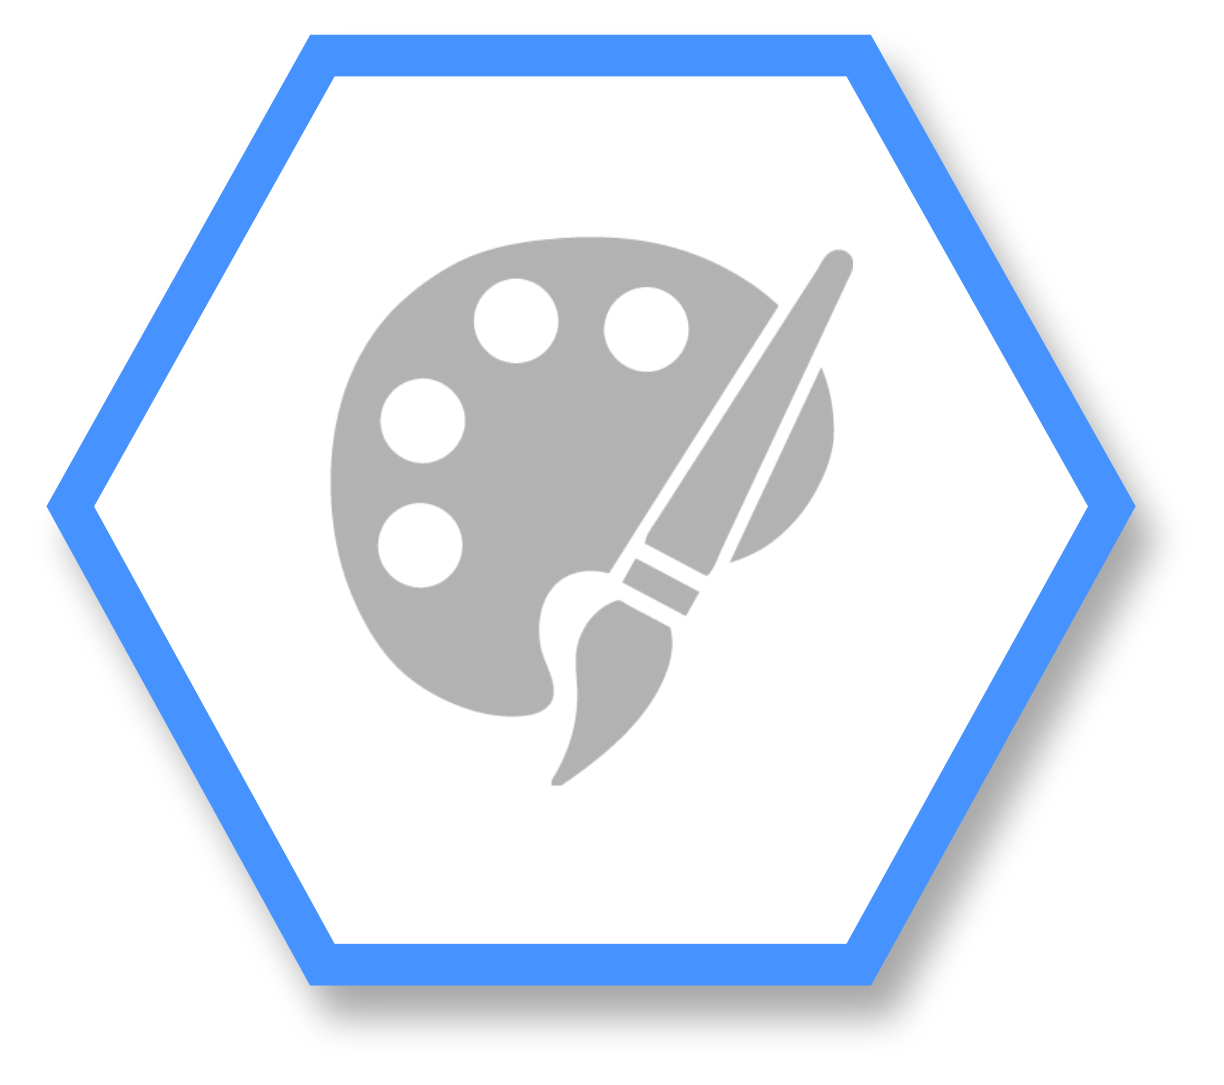
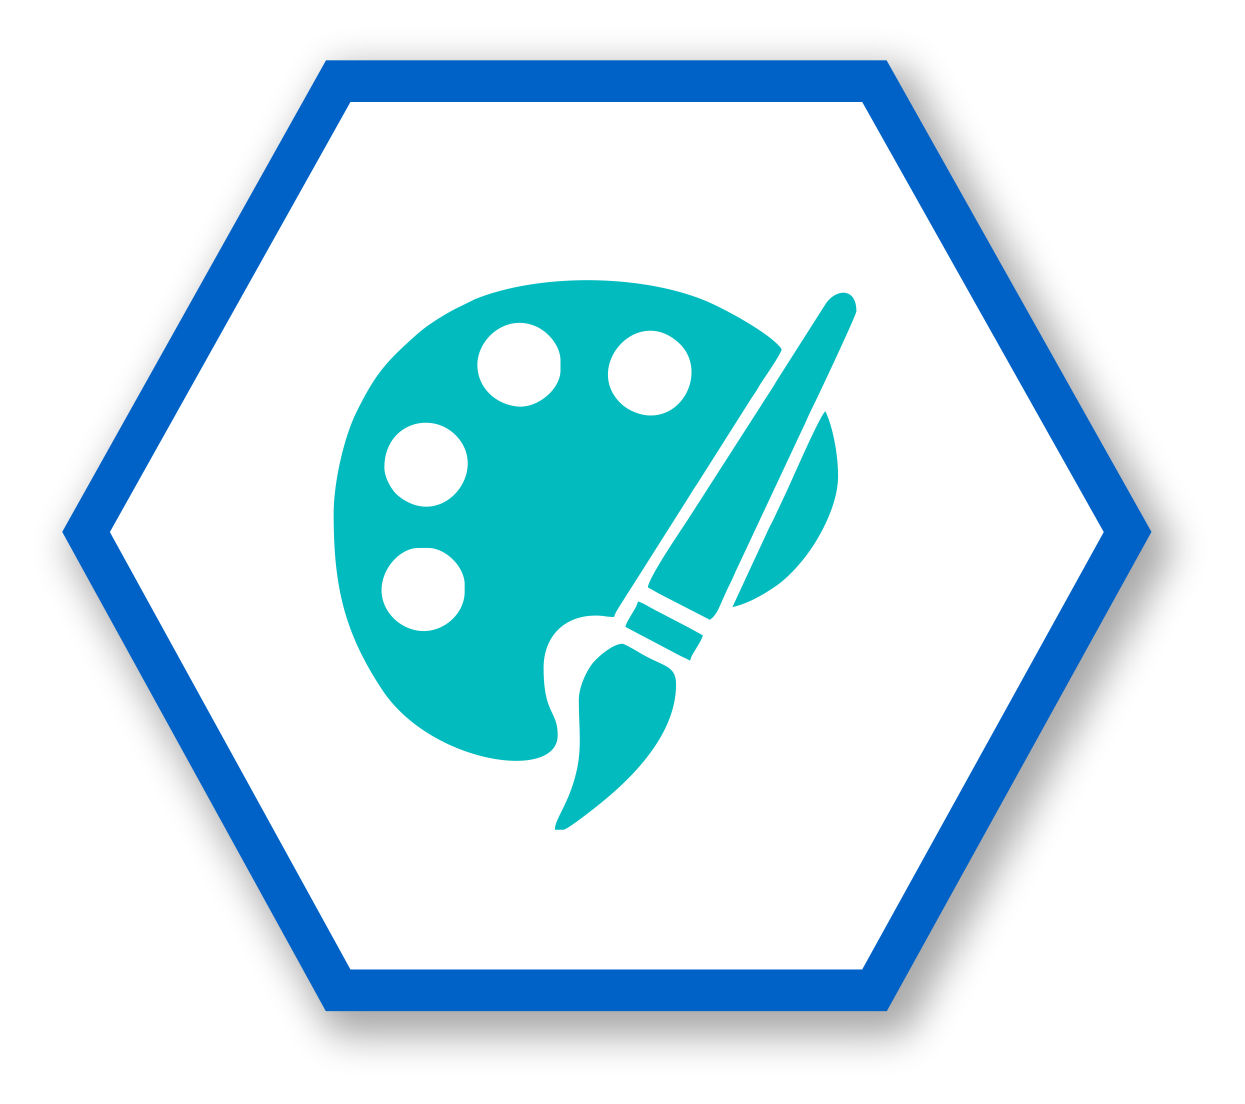
ajustes varios en diseño general

Changed region(s): [[0.031, 0.0304, 0.9314, 0.9429], [0.2484, 0.2129, 0.7141, 0.7604]]

diff --git a/Template/css/index.css b/Template/css/index.css
@@ -154,7 +154,7 @@ header #header_opciones {
   width: 100%;
   justify-content: center;
   align-items: center;
-  background: #2877ED;
+  background: linear-gradient(180deg, rgb(0, 113, 205) 55%, rgba(1, 187, 176, 0.8883928571) 100%);
   color: white;
   padding: 0;
   font-family: fuente1;
@@ -173,10 +173,10 @@ header #header_opciones {
   grid-column: 1/2;
   grid-row: 2/3;
   width: 100%;
-  height: 300px;
+  height: 400px;
   justify-content: space-evenly;
   align-items: center;
-  background: #2877ED;
+  background: linear-gradient(180deg, rgb(0, 113, 205) 55%, rgba(1, 187, 176, 0.8883928571) 100%);
   color: white;
   padding: 0;
   font-family: fuente1;
@@ -185,7 +185,7 @@ header #header_opciones {
   display: flex;
   align-items: center;
   justify-content: center;
-  border-bottom: 2px solid #4693FF;
+  border-bottom: 2px solid rgba(0, 0, 0, 0.2);
   height: 100%;
   width: 100%;
 }
@@ -231,10 +231,9 @@ footer {
   align-items: center;
   overflow: hidden;
   background-color: #4693FF;
-  background-image: url("/Template/Imagenes/fondo-alt-2.jpg");
+  background-image: url("/Template/Imagenes/fondo-alt-2b.jpg");
   background-position: center;
   background-size: cover;
-  background-blend-mode: soft-light;
   padding-bottom: 10px;
 }
 footer #logo_footer {
@@ -410,11 +409,12 @@ section #presentacion #ver_tuto {
   border: none;
   cursor: pointer;
   box-shadow: 2px 2px 8px 2px rgba(0, 0, 0, 0.5);
-  background: #4693FF;
+  background: #0071CD;
   color: white;
 }
 section #presentacion #ver_tuto:hover {
   font-size: 1.15rem;
+  background: #01BBBE;
   transition: 0.5s;
 }
 section #contenedor {
@@ -432,6 +432,10 @@ section #contenedor .descripciones {
   width: 100%;
   overflow: hidden;
   font-family: fuente1;
+  background-image: url("../Imagenes/fondo-alt-4.jpg");
+  background-size: cover;
+  background-repeat: no-repeat;
+  background-position: center;
 }
 section #contenedor .descripciones img {
   width: 170px;
@@ -455,7 +459,7 @@ section #contenedor .descripciones:hover img {
   transition: 0.5s ease-in-out;
 }
 section #contenedor #tutoriales_inicio {
-  background: #6FAEFE !important;
+  background-image: url("../Imagenes/fondo-alt-3.jpg");
 }
 section #contenedor #tutoriales_inicio h4 a {
   color: white;
@@ -549,11 +553,11 @@ section #contenedor #tutoriales_inicio p {
     width: 30%;
     height: 75%;
     border-radius: 10px;
-    background: white;
+    background-image: url("../Imagenes/fondo-alt-4.jpg");
     box-shadow: 3px 3px 10px 5px rgba(0, 0, 0, 0.3);
   }
   body section #contenedor #tutoriales_inicio {
-    background: white !important;
+    background-image: url("../Imagenes/fondo-alt-4.jpg");
   }
   body section #contenedor #tutoriales_inicio h4 a {
     color: #333333 !important;

diff --git a/Template/scss/index.scss b/Template/scss/index.scss
@@ -71,12 +71,13 @@ section{
             border: none;
             cursor: pointer;
             box-shadow: 2px 2px 8px 2px rgba($color: #000000, $alpha: .5);
-            background: v.$celeste1;
+            background: v.$azul2;
             color: v.$fuente3;
         }
 
         #ver_tuto:hover{
             font-size: 1.15rem;
+            background: v.$verde1;
             transition: 0.5s;
         }
     }
@@ -100,6 +101,10 @@ section{
             width: 100%;
             overflow: hidden;
             font-family: fuente1;
+            background-image: url("../Imagenes/fondo-alt-4.jpg");
+            background-size: cover;
+            background-repeat: no-repeat;
+            background-position: center;
     
             img{
                 width: 170px;
@@ -132,7 +137,7 @@ section{
 
         // ajustes particulares
         #tutoriales_inicio{
-            background: v.$celeste3 !important;
+            background-image: url("../Imagenes/fondo-alt-3.jpg");
 
             h4 a{
                 color: v.$fuente3;    
@@ -244,12 +249,12 @@ section{
                     width: 30%;
                     height: 75%;
                     border-radius: 10px;
-                    background: v.$fondoClaro1;
+                    background-image: url("../Imagenes/fondo-alt-4.jpg");
                     box-shadow: 3px 3px 10px 5px rgba($color: #000000, $alpha: .3);
                 }
 
                 #tutoriales_inicio{
-                    background: v.$fondoClaro1 !important;
+                    background-image: url("../Imagenes/fondo-alt-4.jpg");
                     
                     h4 a{
                         color: v.$gris1 !important;

diff --git a/Template/css/dibujo-aves.css b/Template/css/dibujo-aves.css
@@ -154,7 +154,7 @@ header #header_opciones {
   width: 100%;
   justify-content: center;
   align-items: center;
-  background: #2877ED;
+  background: linear-gradient(180deg, rgb(0, 113, 205) 55%, rgba(1, 187, 176, 0.8883928571) 100%);
   color: white;
   padding: 0;
   font-family: fuente1;
@@ -173,10 +173,10 @@ header #header_opciones {
   grid-column: 1/2;
   grid-row: 2/3;
   width: 100%;
-  height: 300px;
+  height: 400px;
   justify-content: space-evenly;
   align-items: center;
-  background: #2877ED;
+  background: linear-gradient(180deg, rgb(0, 113, 205) 55%, rgba(1, 187, 176, 0.8883928571) 100%);
   color: white;
   padding: 0;
   font-family: fuente1;
@@ -185,7 +185,7 @@ header #header_opciones {
   display: flex;
   align-items: center;
   justify-content: center;
-  border-bottom: 2px solid #4693FF;
+  border-bottom: 2px solid rgba(0, 0, 0, 0.2);
   height: 100%;
   width: 100%;
 }
@@ -231,10 +231,9 @@ footer {
   align-items: center;
   overflow: hidden;
   background-color: #4693FF;
-  background-image: url("/Template/Imagenes/fondo-alt-2.jpg");
+  background-image: url("/Template/Imagenes/fondo-alt-2b.jpg");
   background-position: center;
   background-size: cover;
-  background-blend-mode: soft-light;
   padding-bottom: 10px;
 }
 footer #logo_footer {

diff --git a/Template/css/galeria.css b/Template/css/galeria.css
@@ -154,7 +154,7 @@ header #header_opciones {
   width: 100%;
   justify-content: center;
   align-items: center;
-  background: #2877ED;
+  background: linear-gradient(180deg, rgb(0, 113, 205) 55%, rgba(1, 187, 176, 0.8883928571) 100%);
   color: white;
   padding: 0;
   font-family: fuente1;
@@ -173,10 +173,10 @@ header #header_opciones {
   grid-column: 1/2;
   grid-row: 2/3;
   width: 100%;
-  height: 300px;
+  height: 400px;
   justify-content: space-evenly;
   align-items: center;
-  background: #2877ED;
+  background: linear-gradient(180deg, rgb(0, 113, 205) 55%, rgba(1, 187, 176, 0.8883928571) 100%);
   color: white;
   padding: 0;
   font-family: fuente1;
@@ -185,7 +185,7 @@ header #header_opciones {
   display: flex;
   align-items: center;
   justify-content: center;
-  border-bottom: 2px solid #4693FF;
+  border-bottom: 2px solid rgba(0, 0, 0, 0.2);
   height: 100%;
   width: 100%;
 }
@@ -231,10 +231,9 @@ footer {
   align-items: center;
   overflow: hidden;
   background-color: #4693FF;
-  background-image: url("/Template/Imagenes/fondo-alt-2.jpg");
+  background-image: url("/Template/Imagenes/fondo-alt-2b.jpg");
   background-position: center;
   background-size: cover;
-  background-blend-mode: soft-light;
   padding-bottom: 10px;
 }
 footer #logo_footer {

diff --git a/Template/css/tutoriales.css b/Template/css/tutoriales.css
@@ -154,7 +154,7 @@ header #header_opciones {
   width: 100%;
   justify-content: center;
   align-items: center;
-  background: #2877ED;
+  background: linear-gradient(180deg, rgb(0, 113, 205) 55%, rgba(1, 187, 176, 0.8883928571) 100%);
   color: white;
   padding: 0;
   font-family: fuente1;
@@ -173,10 +173,10 @@ header #header_opciones {
   grid-column: 1/2;
   grid-row: 2/3;
   width: 100%;
-  height: 300px;
+  height: 400px;
   justify-content: space-evenly;
   align-items: center;
-  background: #2877ED;
+  background: linear-gradient(180deg, rgb(0, 113, 205) 55%, rgba(1, 187, 176, 0.8883928571) 100%);
   color: white;
   padding: 0;
   font-family: fuente1;
@@ -185,7 +185,7 @@ header #header_opciones {
   display: flex;
   align-items: center;
   justify-content: center;
-  border-bottom: 2px solid #4693FF;
+  border-bottom: 2px solid rgba(0, 0, 0, 0.2);
   height: 100%;
   width: 100%;
 }
@@ -231,10 +231,9 @@ footer {
   align-items: center;
   overflow: hidden;
   background-color: #4693FF;
-  background-image: url("/Template/Imagenes/fondo-alt-2.jpg");
+  background-image: url("/Template/Imagenes/fondo-alt-2b.jpg");
   background-position: center;
   background-size: cover;
-  background-blend-mode: soft-light;
   padding-bottom: 10px;
 }
 footer #logo_footer {

diff --git a/Template/scss/basicos/_nav.scss b/Template/scss/basicos/_nav.scss
@@ -29,7 +29,7 @@
     width: 100%;
     justify-content: center;
     align-items: center;
-    background: v.$celeste2;
+    background: v.$degradado;
     color: v.$fuente3;
     padding: 0;
     font-family: fuente1;
@@ -50,10 +50,10 @@
     grid-column: 1/2;
     grid-row: 2/3;
     width: 100%;
-    height: 300px;
+    height: 400px;
     justify-content: space-evenly;
     align-items: center;
-    background: v.$celeste2;
+    background: v.$degradado;
     color: v.$fuente3;
     padding: 0;
     font-family: fuente1;
@@ -62,7 +62,7 @@
         display: flex;
         align-items: center;
         justify-content: center;
-        border-bottom: 2px solid v.$celeste1;
+        border-bottom: 2px solid rgba(0,0,0,.2);
         height: 100%;
         width: 100%;
     }

diff --git a/Template/scss/partials/_variables.scss b/Template/scss/partials/_variables.scss
@@ -1,6 +1,7 @@
 //---------- VARIABLES ------------//
 
 // colores de relleno & fondo: 
+// paleta A
 $celeste1:#4693FF;
 $celeste2: #2877ED;
 $celeste3: #6FAEFE;
@@ -10,6 +11,12 @@ $gris3: lightgrey;
 $fondoClaro1: white;
 $negro1: black;
 $transparente: rgba(0,0,0,.5);
+// paleta B
+$azul1:#0062C7;
+$azul2: #0071CD;
+$verde1: #01BBBE;
+$verde2: #01BBBE;
+$degradado:linear-gradient(180deg, rgba(0,113,205,1) 55%, rgba(1,187,176,0.8883928571428571) 100%);
 
 // colores fuente
 $fuente1: #333333;

diff --git a/Template/scss/basicos/_footer.scss b/Template/scss/basicos/_footer.scss
@@ -11,10 +11,10 @@ footer{
     align-items: center;
     overflow: hidden;
     background-color: v.$celeste1;
-    background-image: url("/Template/Imagenes/fondo-alt-2.jpg");
+    background-image: url("/Template/Imagenes/fondo-alt-2b.jpg");
     background-position: center;
     background-size: cover;
-    background-blend-mode:soft-light;
+    //background-blend-mode:soft-light;
     padding-bottom: 10px;
 
     #logo_footer{
